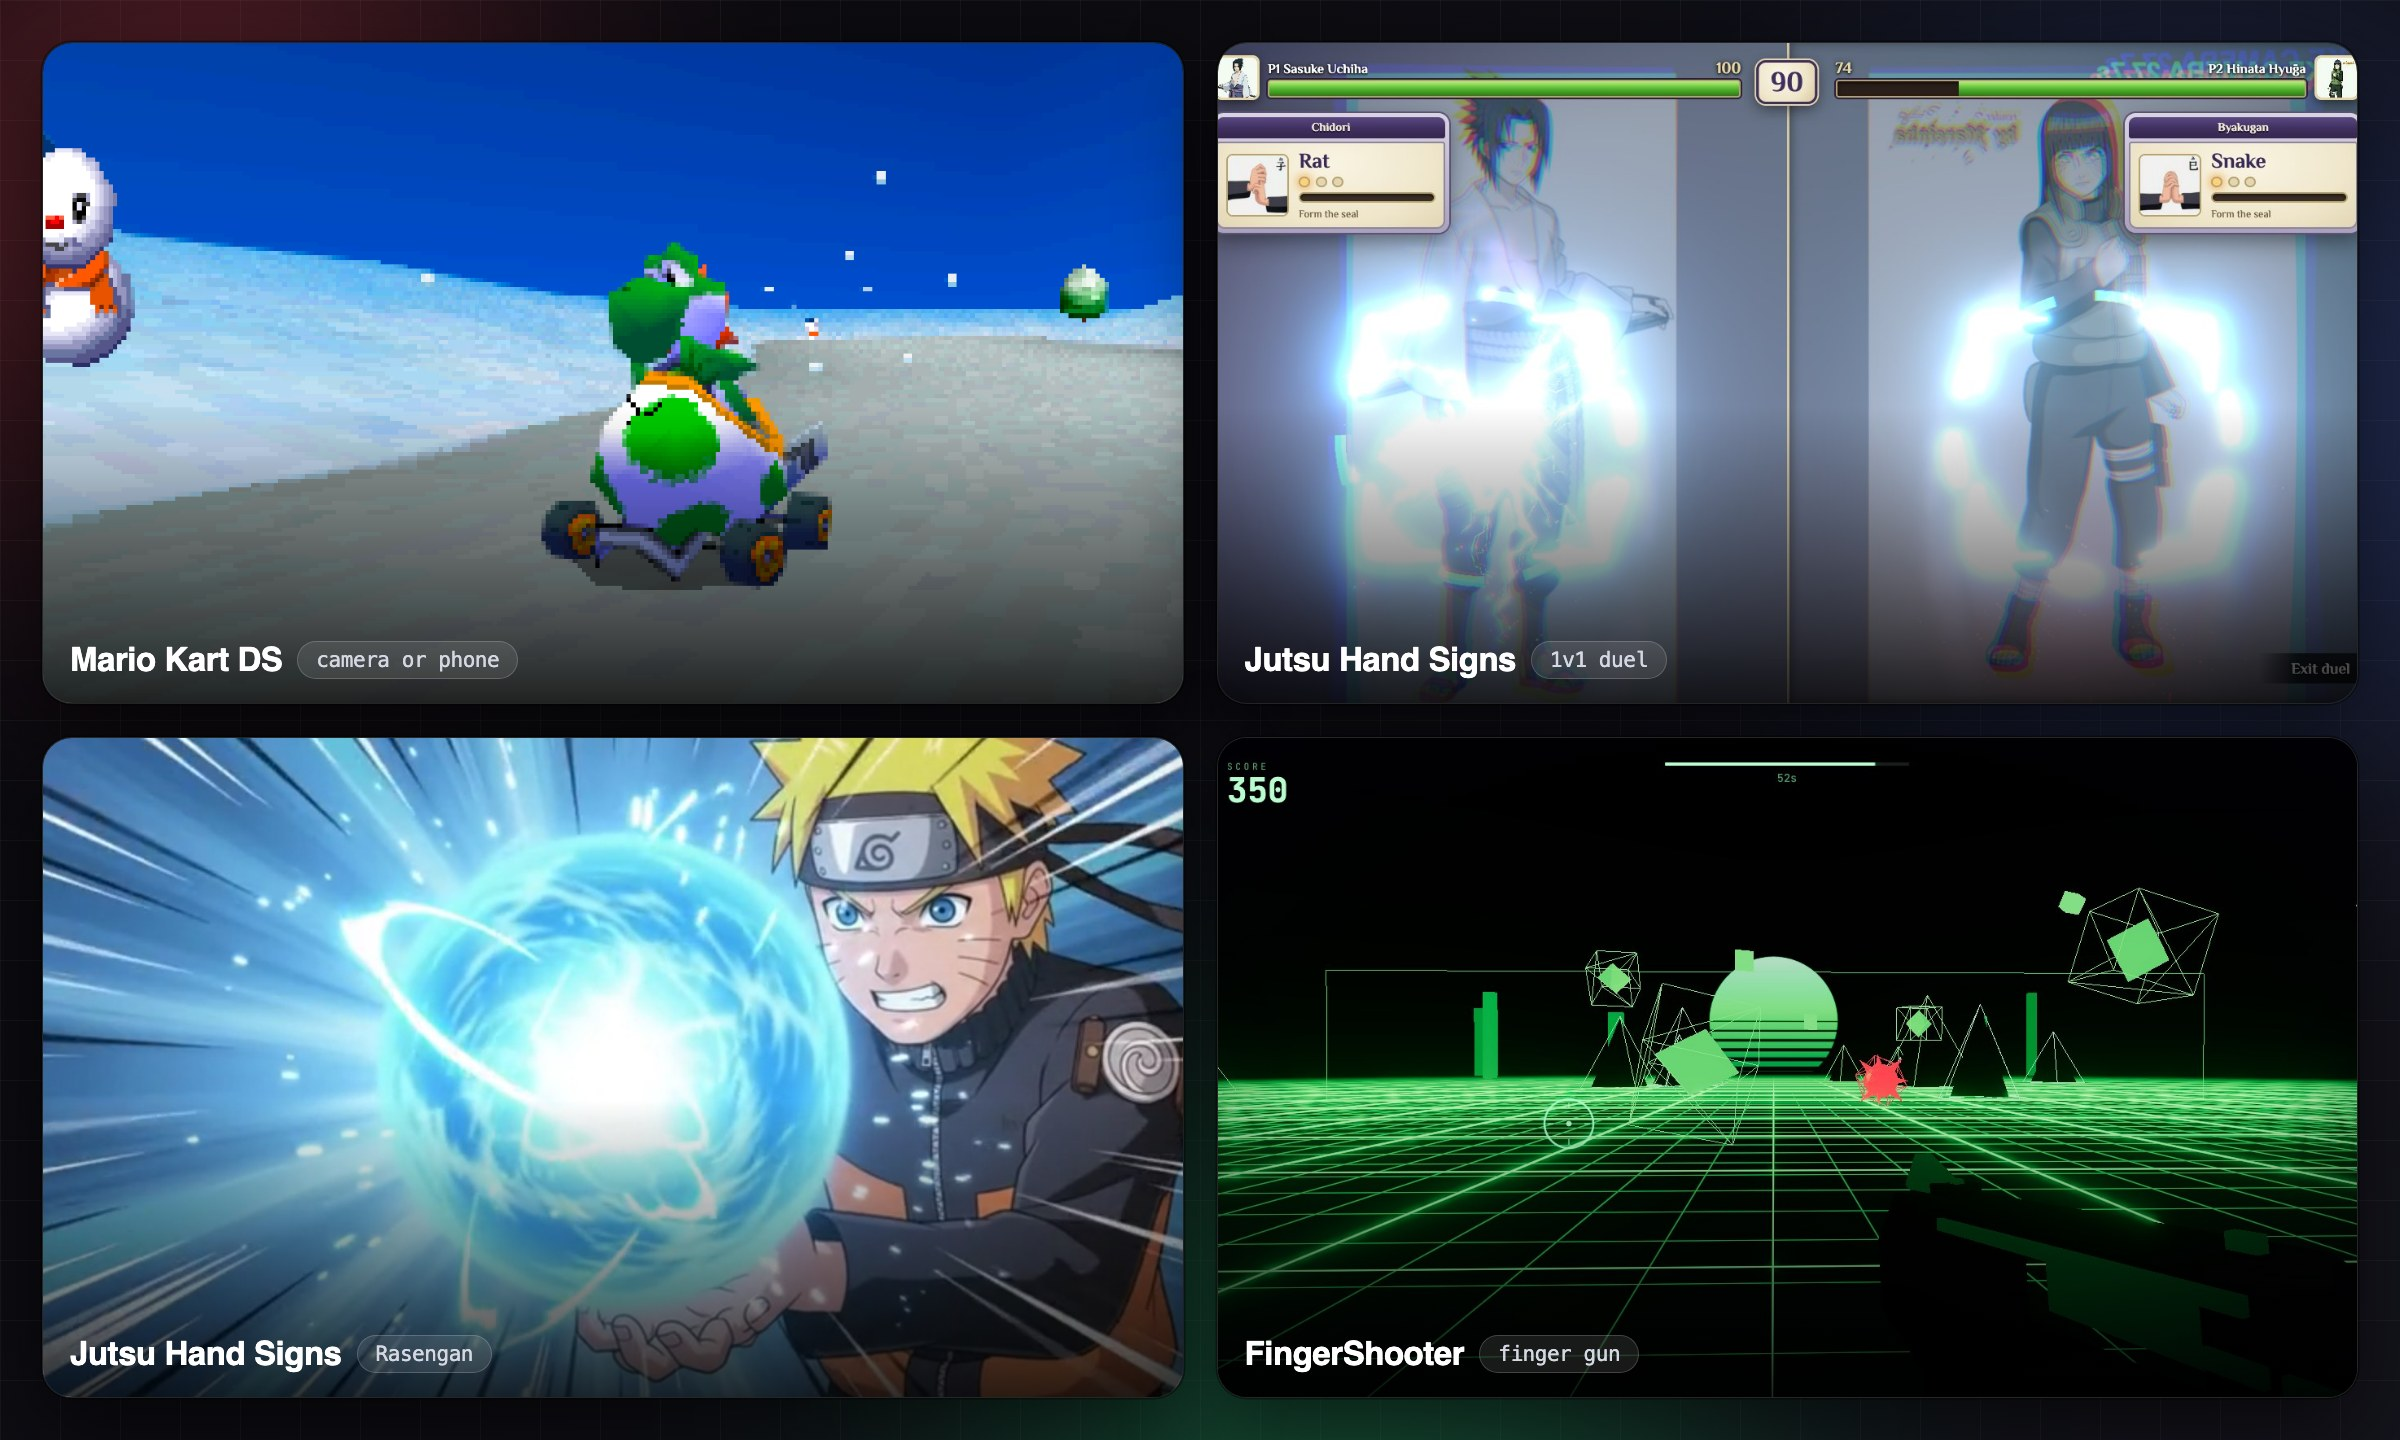
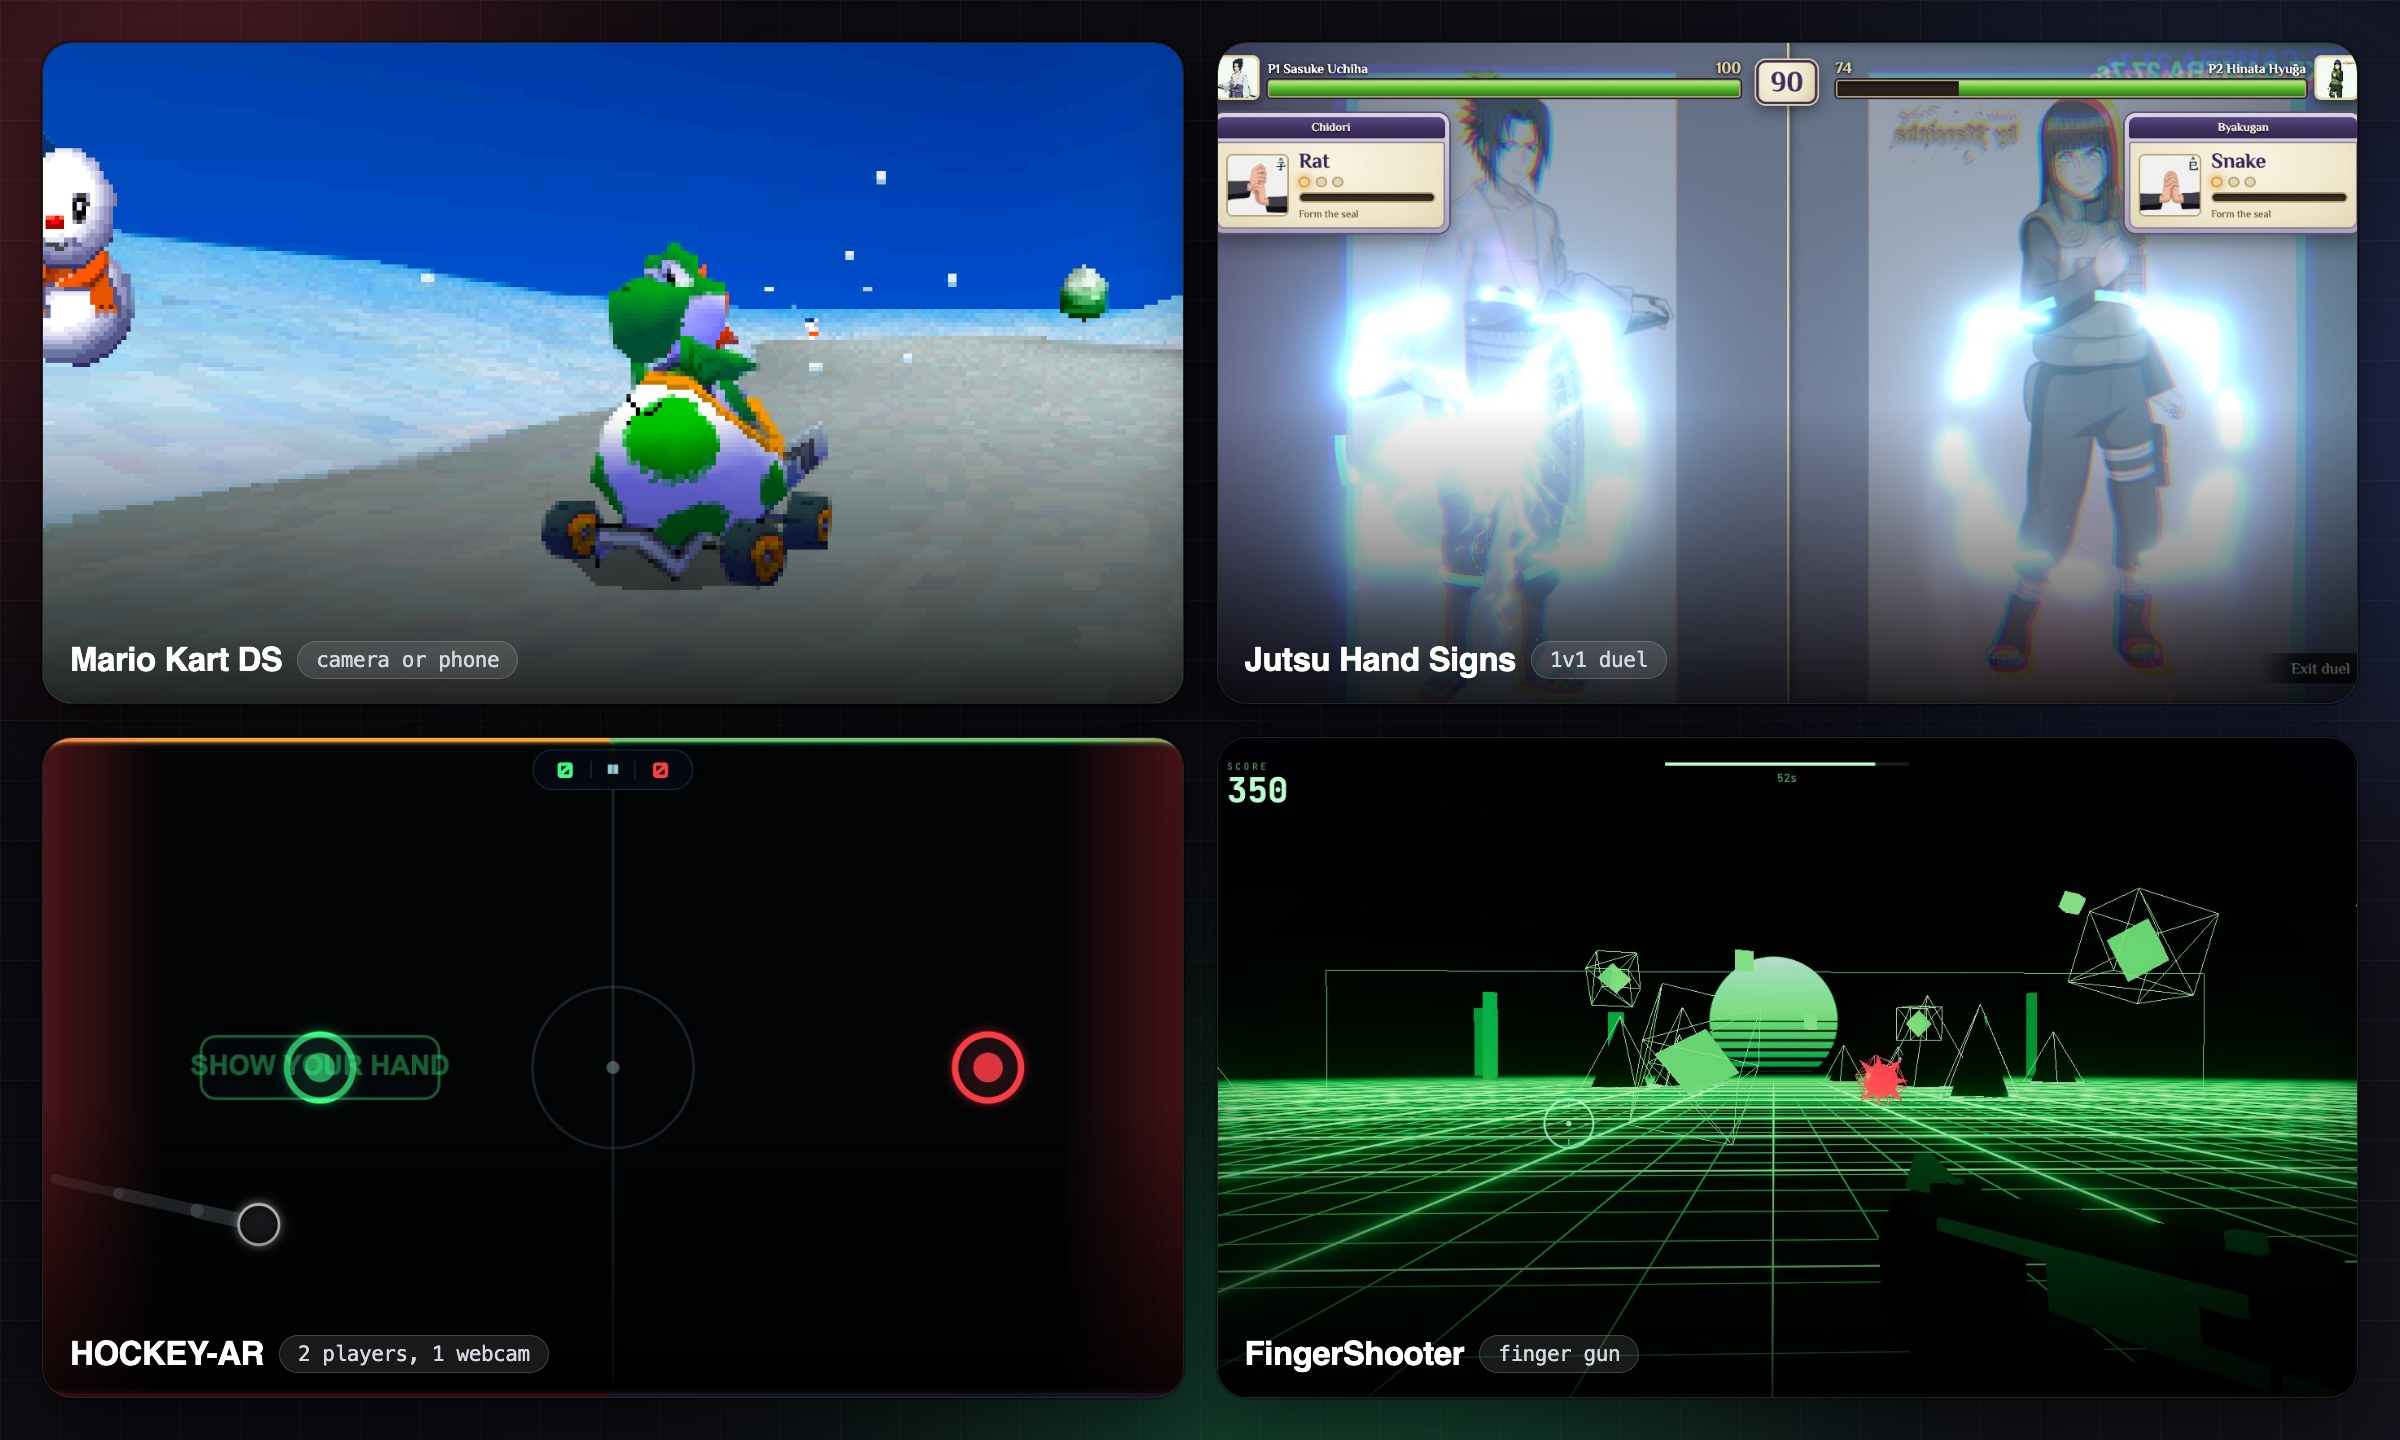
feat: add HOCKEY-AR (ar-hockey) as the fourth game, bump submodules, new showcase (#8)

Changed region(s): [[0.0, 0.5, 0.5, 0.9688]]

diff --git a/README.md b/README.md
@@ -14,10 +14,10 @@
 ---
 
 <p align="center">
-  <img src="./assets/showcase.jpg" alt="Mario Kart DS, Jutsu Hand Signs and FingerShooter running" width="1000" />
+  <img src="./assets/showcase.jpg" alt="Mario Kart DS, Jutsu Hand Signs, FingerShooter and HOCKEY-AR running" width="1000" />
 </p>
 
-<p align="center"><sub>Real captures: Mario Kart DS (DS64), the Jutsu duel and Rasengan intro, FingerShooter.</sub></p>
+<p align="center"><sub>Real captures: Mario Kart DS (DS64), the Jutsu duel, FingerShooter and HOCKEY-AR.</sub></p>
 
 ## Motion Games
 
@@ -29,7 +29,7 @@ No controllers, no setup for the player: walk up, stand in front of the camera, 
 
 <table>
 <tr>
-<td width="33%" valign="top">
+<td width="50%" valign="top">
 
 ### Mario Kart DS, webcam edition
 
@@ -43,7 +43,7 @@ Play Mario Kart DS with your hands or your phone.
 **[Open the repo](https://github.com/MicroClub-USTHB/mario-cam-kart)** · `submodules/mario-cam-kart`
 
 </td>
-<td width="33%" valign="top">
+<td width="50%" valign="top">
 
 ### Jutsu Hand Signs, Naruto webcam game
 
@@ -57,7 +57,9 @@ Choose your ninja and form the hand seals.
 **[Open the repo](https://github.com/MicroClub-USTHB/JutsuHandSigns)** · `submodules/jutsu-hand-signs`
 
 </td>
-<td width="33%" valign="top">
+</tr>
+<tr>
+<td width="50%" valign="top">
 
 ### FingerShooter, finger-gun gallery
 
@@ -69,6 +71,20 @@ Aim with your index finger, fire by snapping your thumb.
 - Mouse fallback if the camera is blocked
 
 **[Open the repo](https://github.com/MicroClub-USTHB/FingerShooter)** · [Play live](https://fingershooter.netlify.app/) · `submodules/fingershooter`
+
+</td>
+<td width="50%" valign="top">
+
+### HOCKEY-AR, air hockey for two
+
+Two players, one webcam: your hand is the paddle.
+
+- MediaPipe hand tracking in the browser
+- Fixed-timestep physics, neon table, puck trail
+- Two players or solo against an AI
+- First to 7 wins, plain HTML, CSS and JavaScript
+
+**[Open the repo](https://github.com/MicroClub-USTHB/ar-hockey)** · `submodules/ar-hockey`
 
 </td>
 </tr>
@@ -90,6 +106,9 @@ cd submodules/jutsu-hand-signs && pip install -r requirements.txt && python main
 # FingerShooter (runs in the browser)
 cd submodules/fingershooter && npm install && npm run dev
 
+# HOCKEY-AR (static site, needs http://localhost for the camera)
+cd submodules/ar-hockey && python3 -m http.server 8000
+
 # Mario Kart DS (needs your own legally dumped ROM, see its README)
 cd submodules/mario-cam-kart && ./play.sh      # play.bat on Windows
 ```
@@ -101,6 +120,7 @@ cd submodules/mario-cam-kart && ./play.sh      # play.bat on Windows
 | **Mario Kart DS** | Show both hands to the camera and grab an imaginary wheel. Tilt to steer, fist to accelerate, open palm to brake, thumb out for an item. Or scan the QR code and drive from your phone. |
 | **Jutsu Hand Signs** | Pick a ninja and difficulty. Form each seal shown on screen and hold it. Finish the sequence and your jutsu erupts on your hand. |
 | **FingerShooter** | Allow the camera, hold the aim pose until calibration fills. Point your index finger to aim, cock and snap your thumb to fire. Avoid the firewall viruses. |
+| **HOCKEY-AR** | Pick 2 players or solo vs AI and allow the camera. Show a hand each, one on each half of the picture, and swing into the puck. First to 7 wins. |
 
 ## Built with
 
@@ -110,6 +130,7 @@ cd submodules/mario-cam-kart && ./play.sh      # play.bat on Windows
 | **MediaPipe** | hand tracking and gesture recognition |
 | **Python** | game logic |
 | **Three.js** | the 3D scene of FingerShooter and the Jutsu duel |
+| **HTML canvas** | HOCKEY-AR's table, physics and effects |
 | **melonDS** | the Nintendo DS emulator the kart game is forked from |
 
 ## Contributors
@@ -146,7 +167,7 @@ The people who built these games.
 <td align="center" valign="top" width="16%">
 <a href="https://github.com/leash06"><img src="https://avatars.githubusercontent.com/u/222554346?v=4&s=160" width="88" alt="leash06" /></a><br />
 <a href="https://github.com/leash06"><b>leash06</b></a><br />
-<sub>Motion Games</sub>
+<sub>HOCKEY-AR · Motion Games</sub>
 </td>
 </tr>
 </table>
